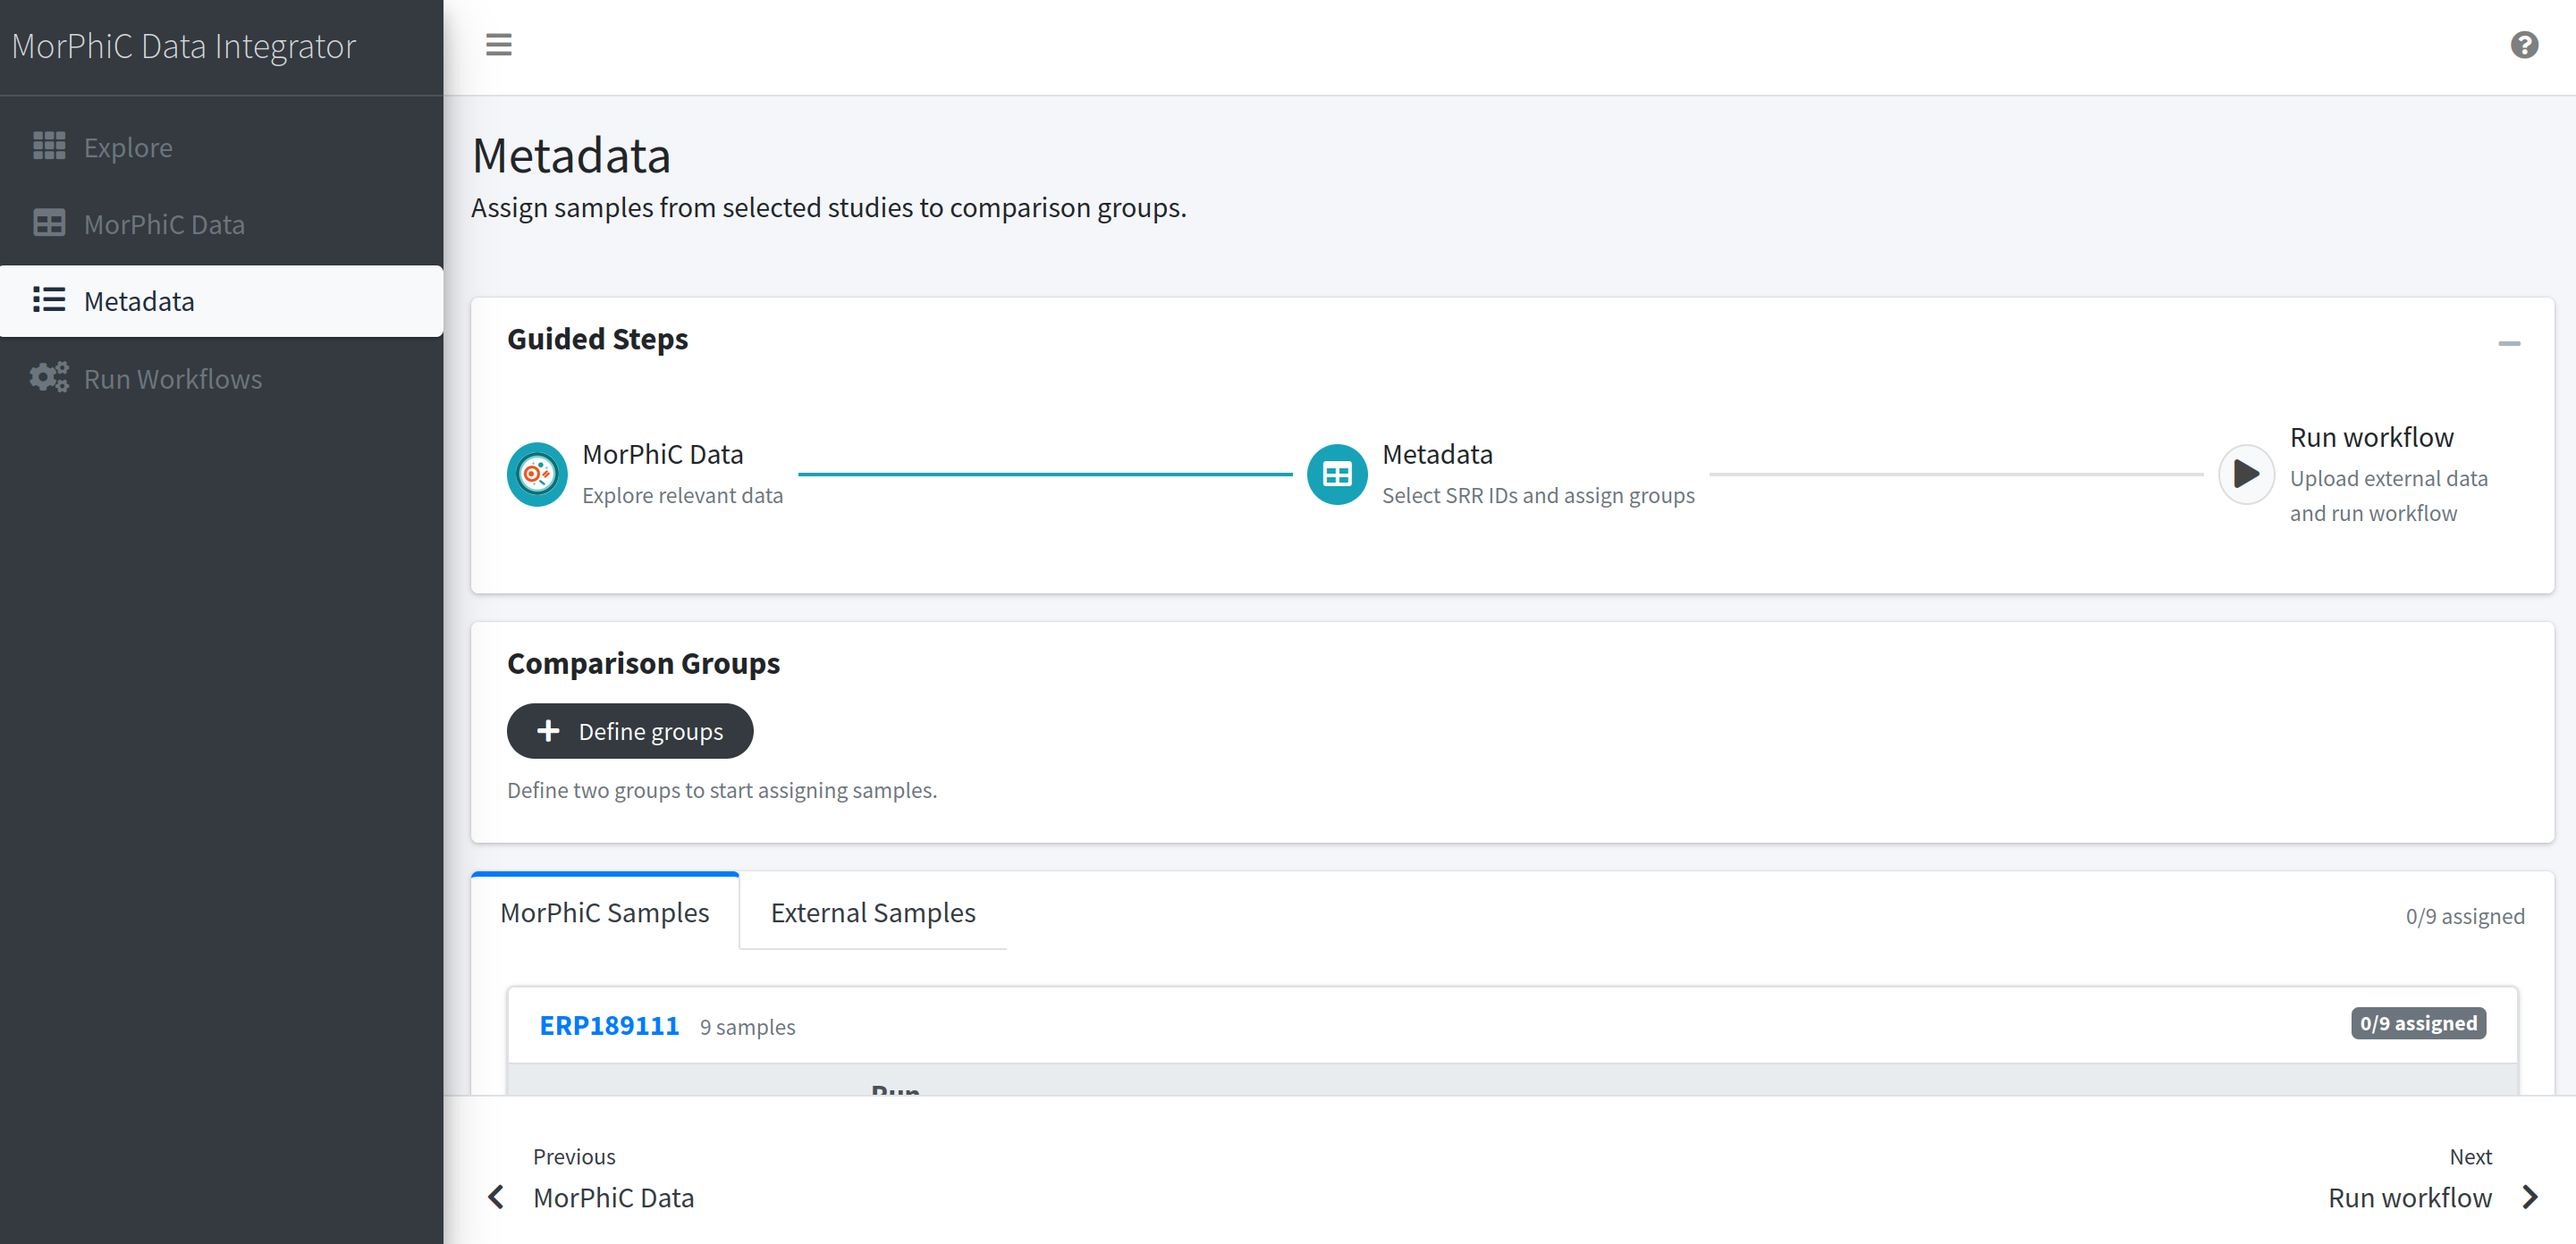
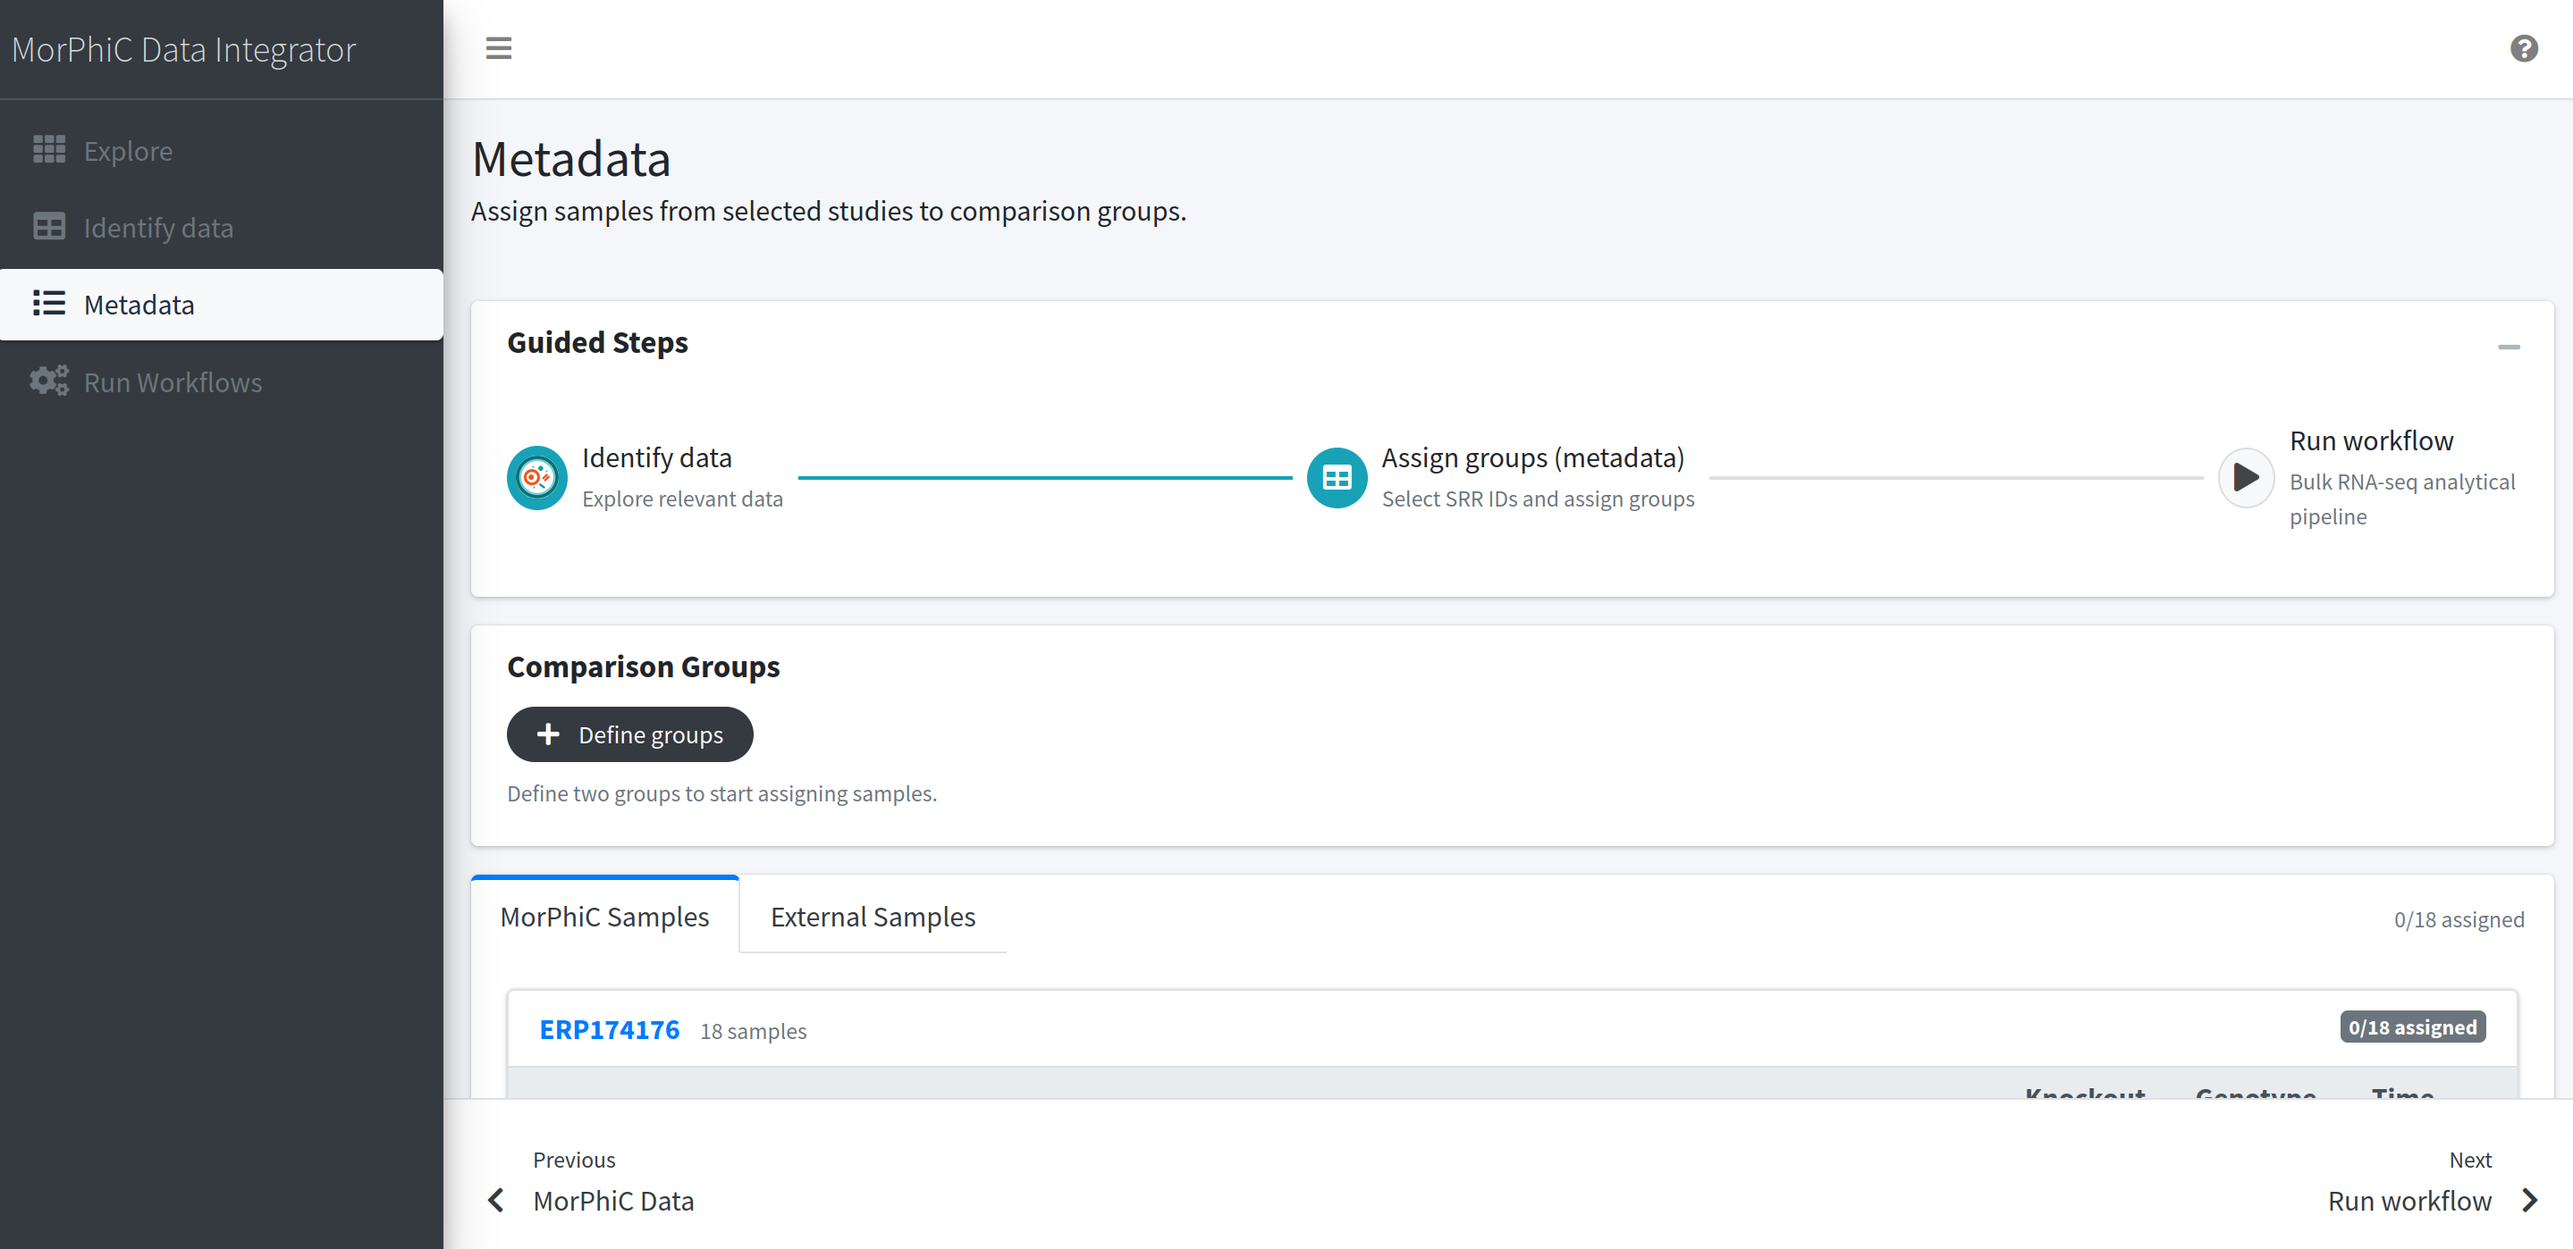
Update README.md
Edit installation instructions
Edit usage instructions and images

diff --git a/README.md b/README.md
@@ -6,20 +6,29 @@ Interactive Data Integrator facilates uniform data processing and integration wi
 
 ## Table of Contents
 
-- [Project Setup](#project-setup)
-    - [External dependencies](#external-dependencies)
-    - [Prerequisites](#prerequisites)
-    - [Clone the project](#clone-the-project)
-    - [Option A: Docker Setup](#option-a-docker-setup)
-    - [Option B: Local Setup](#option-b-local-setup)
-    - [Testing](#testing)
-- [Steps and Analysis](#steps-and-analysis)
+- [Installation](#installation)
+    - [Option 1: Docker Setup](#option-1-docker)
+    - [Option 2: Local Setup](#option-2-local-development)
+- [Usage: Steps and Analysis](#usage-steps-and-analysis)
 - [Troubleshooting](#troubleshoting)
 - [Technologies Used](#technologies-used)
 
-## Installation and Running
+## Installation
 
-### Linux/AMD64
+This project provides option to setup using either **Docker** (recommended for quick setup) or as a **Local Installation** (recommended for active development)
+
+**External dependencies**
+
+This repo depends on code from the following repositories. These are installed / run automatically by the applications source.
+
+- BWB SCHEDULER: Source code at https://github.com/Patrick-McKeever/bwb\_scheduler, docker image at `patrickmckeever/bwb-scheduler:latest`
+- MORPHIC Bulk RNA seq workflow: Source code at https://github.com/morphic-bio/Bulk-RNA-seq/
+
+### Option 1: Docker
+
+**Requirements**: **Docker**
+
+#### Linux/AMD64
 The following section deals with setup for Linux/Amd64. It assumes that docker has been installated. The integrator may be run like so.
 ```
 git clone https://github.com/BioDepot/MorPhiC-Data-Integrator.git && cd MorPhiC-Data-Integrator
@@ -27,7 +36,7 @@ docker build -t data_integrator .
 SRC=$(pwd) && SCHED_DIR=/data && sudo docker run --rm -it -p 5000:5000 -v $SCHED_DIR:$SCHED_DIR -v $SRC:$SRC -v /var/run/docker.sock:/var/run/docker.sock -e BWB_SCHED_DIR=$SCHED_DIR  docker.io/library/data_integrator sh -c "cd $SRC && flask run"
 ```
 
-### Mac
+#### Mac
 For Macs, it will be required to use multipass or a similar system in order to run the linux/arm64 docker images. Multipass may be installated from [this link](https://canonical.com/multipass/install).
 ```
 multipass launch 24.04 --name docker-vm
@@ -41,137 +50,39 @@ docker build -t data_integrator .
 SRC=$(pwd) && SCHED_DIR=/data && sudo docker run --rm -it -p 5000:5000 -v $SCHED_DIR:$SCHED_DIR -v $SRC:$SRC -v /var/run/docker.sock:/var/run/docker.sock -e BWB_SCHED_DIR=$SCHED_DIR  docker.io/library/data_integrator sh -c "cd $SRC && flask run"
 ```
 
-## Project Setup
+### Option 2: Local Development
 
-This project provides option to setup using either **Docker** (recommended for quick setup) or as a **Local Installation** (recommended for active development)
-
-### External dependencies
-
-This repo depends on code from the following repositories. These are installed / run automatically by the applications source.
-
-- BWB SCHEDULER: Source code at https://github.com/Patrick-McKeever/bwb\_scheduler, docker image at `patrickmckeever/bwb-scheduler:latest`
-- MORPHIC Bulk RNA seq workflow: Source code at https://github.com/morphic-bio/Bulk-RNA-seq/
-
-### Prerequisites
-
-Before you begin, ensure you have the following installed on your local machine:
-
+**Requirements**
+- Linux/Amd64
 - **Python 3.12** (Required version)
-    
-    Check version
-    ```
-    python3 --version
-    ```
-    example output
-    ```
-    Python 3.12.3
-    ```
 - **pip** (Python package manager)
 - **Docker**
 
-
-
-### Clone the project
-
-1. On GitHub website, navigate to the main page of the repository.
-2. Above the list of files, click "<> Code".
-3. Copy the URL for the repository.
-    - To clone the repository using HTTPS, under "HTTPS", copy the link
-4. Open Terminal
-5. Change the current working directory to the location where you want the cloned directory.
-6. Type `git clone`, and then paste the URL you copied earlier.
-    ```
-    git clone https://github.com/BioDepot/MorPhiC-Data-Integrator.git
-    ```
-7. Press Enter to create your local clone.
-8. Navigate into the project working directory
-    ```
-    cd MorPhiC-Data-Integrator
-    ```
-
-### Option A: Docker Setup
-If you are on an arm64 system, it will be necessary to rebuild certain images for arm64 locally before running. This is a temporary fix, and we will push arm64 images to docker hub shortly. If you are on x86_64, you can ignore the before steps.
+#### Steps
 ```
-docker build -t patrickmckeever/rnotebook:0.4 patrickmckeever/rpcaDocker
+# Clone and navigate to project directory
+git clone https://github.com/BioDepot/MorPhiC-Data-Integrator.git
+cd MorPhiC-Data-Integrator
 
-git clone https://github.com/Patrick-McKeever/bwb_scheduler
-cd bwb_scheduler
-docker build -t patrickmckeever/bwb_scheduler:latest
-```
-After [cloning the project](#clone-the-project) and navigating into the working directory.
+# Create a virtual environment
+python3.12 -m venv .venv
 
-Build the Docker image and run the container
+# Activate the virtual enviroment
+source .venv/bin/activate
 
-```
-docker build -t data_integrator .
-SRC=$(pwd) && SCHED_DIR=/data && sudo docker run --rm -it -p 5000:5000 -v $SCHED_DIR:$SCHED_DIR -v $SRC:$SRC -v /var/run/docker.sock:/var/run/docker.sock -e BWB_SCHED_DIR=$SCHED_DIR  docker.io/library/data_integrator sh -c "cd $SRC && flask run"
+# Upgrade pip and install dependencies
+pip install --upgrade pip
+pip install -r requirements.txt
+
+# Run the application
+flask run
 ```
 
 Open your web browser and navigate to http://127.0.0.1:5000/
 
+You’ll be able to visit the site locally as long as your development server is running. To stop running, go back to your terminal window, then `ctrl-c`. To deactivate the Python virtual enviroment type and enter the command `deactivate` after stop running.
 
-### Option B: Local Setup
-
-Start by [cloning the project](#clone-the-project) and navigating into the working directory.
-
-#### Installing dependencies
-
-In the project working directory:
-- Create a virtual environment with python
-
-    - macOS/Linux/Windows
-    ```
-    python3.12 -m venv .venv
-    ```
-- Activate the virtual enviroment
-
-    - macOS/Linux
-    ```
-    source .venv/bin/activate
-    ```
-
-    - Windows (Command Prompt)
-    ```
-    .venv\Scripts\activate.bat
-    ```
-    After acitvation your prompt should look similar to
-    ```
-    (.venv)
-    ```
-
-    Verify the virtual enviroment is using python 
-    ```
-    python3.12 --version
-    ```
-    Expected Output
-    ```
-    Python 3.12.x
-    ```
-- Install Dependencies: 
-  - With PIP: 
-  ```shell 
-  pip install -r requirements.txt
-  ```
-
-#### Start the project
-
-1. Activate your python virtual environment
-
-2. Run the web app with
-    ```shell
-    python run.py
-    ```
-    or 
-    ```shell
-    $ flask run
-    ```
-    After a few moments, the command line should output a message letting you know the development server is ready.
-
-3. Open your web browser and navigate to http://127.0.0.1:5000/
-
-You’ll be able to visit the site locally as long as your development server is running. To stop running, go back to your terminal window, then hit `ctrl-c`. To deactivate the Python virtual enviroment type and enter the command `deactivate` after stop running.
-
-## Testing
+#### Testing
 
 Run all Tests:
 ```
@@ -183,22 +94,22 @@ Run specific tests like unit tests:
 PYTHONPATH=. pytest -m unit
 ```
 
-## Steps and Analysis
+## Usage: Steps and Analysis
 
 Run the application using the previous setup.
 
 The steps can be summarized by:
 1. Exploring datasets and selecting relevant studies.
 2. View metadata available, assign samples to groups.
-3. Review selected samples and add additional fastq files (optional)
-4. Run the run the MORPHIC Bulk RNA sequencing pipeline.
-5. View resuls and download counts.
+3. Add additional fastq files (optional)
+4. Run the MORPHIC Bulk RNA sequencing pipeline.
+5. View results and download counts.
 
 Explore available datasets from the MorPhiC Consortsium Public Data Release by navigating to data page.
 
 ![Integrator MorPhiC data](./media/images/morphic_data_page.png)
 
-Select a relevant studies, each selection will use the accession ID to show metadata in the next page. Additional external studies (non-MorPhiC bulk RNA-seq) published in GEO can be added by optionally entering GSE accession numbers.
+Select a relevant studies, each selection will use the accession ID to show metadata in the next page. Additional external studies (non-MorPhiC bulk RNA-seq) published in GEO can be added by optionally entering GSE accession numbers. This option is located under the data table.
 
 ![Integrator add external GEO ID](./media/images/external_geo_ids_examples.png)
 
@@ -221,29 +132,22 @@ View samples for each study. Samples from the MorPhiC program will be listed und
 
 ![Integrator add external GEO ID](./media/images/assign_to_group.png)
 
-After selecting samples, navigate to "Next Run Workflow". Current selection of samples and their respective groups will be displayed. To make any modifications select "Edit". The option to upload fastq files is available for uniformly processing private data. Select "Run" when ready. Running a workflow will run the MORPHIC Bulk RNA sequencing pipeline via the Biodepot scheduler.
+Selecting the "External Samples" tab will open the option to upload fastq files for uniformly processing private data. This tab also includes samples for previously inputed external GEO ID's.
 
-![Integrator add external GEO ID](./media/images/run_workflow_page.png)
+![Upload FASTQ file](./media/images/upload_file.png)
+
+After selecting samples, navigate to "Next Run Workflow". Select "Run" when ready. Running a workflow will run the MORPHIC Bulk RNA sequencing pipeline via the Biodepot scheduler.
 
 The status of the workflow will show at the top of screen. When complete, the page will refresh to show results. Option to download counts is available.
 
 ## Troubleshoting
-- When uisng local setup of the project, some packages will require Python version 3.12. Please ensure that your setup uses Python 3.12. Alternatives versions such as 3.9 to 3.12 may work. Run previous setup instructions with specific Python version by replacing `python3.12` with `python3.10`.
+- When uisng local setup of the project, some packages will require Python version 3.12. Please ensure that your setup uses Python 3.12. Alternatives versions such as 3.9 to 3.12 may work. Afer installing a different python version, run previous setup instructions by replacing `python3.12`.
 
-    Check if specific version of Python is available
-    - macOS/Linux
-    ```
-    python3.12 --version
-    ```
-    Replace 3.xx with the version, like 3.10.
-
-    If available the exact version will be returned (e.g., `Python 3.12.3`). If not available your will see a command not found error.
-    
-    - Windows
-    ```
-    py -0
-    ```
-    This will list all the Python versions in your system (e.g., `-3.11-64`, `3.12-64`).
+    For example, create a virtual environment with `python3.10`.
+    - macOS/Linux/Windows
+        ```
+        python3.10 -m venv .venv
+        ```
 
 ## Technologies Used
 
